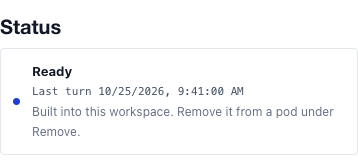
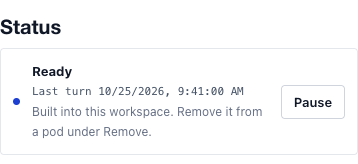
Keep primary harness facts tied to the last spawn receipt
Agent-Model: codex/gpt-6.1-sol/medium
Agent-Model: claude/claude-haiku-5-5/default

Changed region(s): [[0.0922, 0.7622, 0.4302, 0.8537], [0.7374, 0.5793, 0.9525, 0.7317], [0.7682, 0.5183, 0.9832, 0.5488]]

diff --git a/frontend/src/v2/agents/V2AgentSettingsPage.tsx b/frontend/src/v2/agents/V2AgentSettingsPage.tsx
@@ -196,8 +196,9 @@ const V2AgentSettingsPage: React.FC = () => {
   };
   const activeKeys = keys.filter((key) => key.status === 'active');
   const kind = agentRuntimeKind(runtime, connectionState === 'never' ? false : processConnected);
-  const harnessLabel = describeRuntime({ ...runtime, adapter: runtimeObservation?.lastSpawn?.harness || runtime.adapter }).adapter
-    || runtimeObservation?.lastSpawn?.harness || runtime.adapter;
+  const harnessLabel = runtimeObservation?.lastSpawn
+    ? describeRuntime({ ...runtime, adapter: runtimeObservation.lastSpawn.harness }).adapter
+      || runtimeObservation.lastSpawn.harness : null;
   const revokedKeys = keys.filter((key) => key.status === 'revoked');
   const keyLabel = (key: RuntimeKey): string => {
     const defaultLabel = !key.label || key.label === 'Runtime token' || key.label === 'Agent Settings replacement';
@@ -232,6 +233,7 @@ const V2AgentSettingsPage: React.FC = () => {
       )}
     </li>
   );
+  const runtimeSummary = <V2AgentRuntimeSummary name={agentName} runtime={runtime} serverModel={runtimeRun?.model} />;
 
   return (
     <main className="v2-agent-settings">
@@ -252,8 +254,11 @@ const V2AgentSettingsPage: React.FC = () => {
         paused={installation?.status === 'paused'} builtIn={kind === 'builtIn'}
         observation={runtimeObservation} run={runtimeRun} task={heldTask} update={update}
         refreshNonce={connectionRefreshNonce} onConnectionState={onConnectionState} />
-      <V2AgentRuntimeGrants name={agentName} instanceId={instanceId} runtime={runtime} section="runtime" runtimeTitle={t('agentSettings.rev3.runtime')}
-        runtimeSummary={<V2AgentRuntimeSummary name={agentName} runtime={runtime} serverModel={runtimeRun?.model} />} />
+      {connectionState === 'never' ? <section className="v2-agent-settings__section" aria-labelledby="agent-runtime-heading">
+        <h2 id="agent-runtime-heading">{t('agentSettings.rev3.runtime')}</h2>{runtimeSummary}
+      </section> : <V2AgentRuntimeGrants name={agentName} instanceId={instanceId} runtime={runtime} section="runtime" runtimeTitle={t('agentSettings.rev3.runtime')}
+        onSaveRuntime={runtimeEditable ? updateRuntime : undefined}
+        runtimeSummary={runtimeSummary} />}
       {runtimeManaged && runtimeEditable && <details className="v2-agent-settings__runtime-details">
         <summary>{t('agentSettings.rev3.editRuntime')}</summary>
         <V2RuntimeControls runtime={runtime} onSave={updateRuntime} />

diff --git a/frontend/src/v2/agents/V2AgentRuntimeSummary.tsx b/frontend/src/v2/agents/V2AgentRuntimeSummary.tsx
@@ -17,12 +17,18 @@ const V2AgentRuntimeSummary: React.FC<{
   const details = describeRuntime(runtime);
   const onCommonly = details.mode === 'native' || details.mode === 'hosted';
   const last = runtime.observation?.lastSpawn;
+  const observedHarness = last ? describeRuntime({ ...runtime, adapter: last.harness }).adapter || last.harness : null;
   const model = onCommonly ? serverModel : last?.model;
   const configCommand = `commonly agent config ${name} --model <id> --effort <level>`;
+  const copy = async () => {
+    setCopyError(false);
+    try { await navigator.clipboard.writeText(configCommand); }
+    catch { setCopyError(true); }
+  };
   return <div className="v2-agent-runtime-summary">
     <dl>
       <div><dt>{t('agentSettings.rev3.where')}</dt><dd>{t(`agentSettings.rev3.${onCommonly ? 'onCommonly' : 'onMachine'}`)}
-        {details.mode === 'native' ? `, ${t('agentSettings.rev3.builtIn')}` : details.adapter ? ` · ${details.adapter}` : ''}</dd></div>
+        {details.mode === 'native' ? `, ${t('agentSettings.rev3.builtIn')}` : observedHarness ? ` · ${observedHarness}` : ''}</dd></div>
       <div><dt>{t('agentManage.controls.model')}{!onCommonly && ` · ${t('agentManage.controls.effort')}`}</dt>
         <dd>{onCommonly && `${t('agentSettings.rev3.modelPicked')}: `}{model || t('agentManage.controls.notReported')}
           {!onCommonly && last?.effort ? ` · ${last.effort}` : ''}
@@ -30,10 +36,7 @@ const V2AgentRuntimeSummary: React.FC<{
         </dd></div>
     </dl>
     {!onCommonly && last && <div className="v2-agent-runtime-summary__command"><code>{configCommand}</code>
-      <button type="button" onClick={() => {
-        setCopyError(false);
-        void navigator.clipboard.writeText(configCommand).catch(() => setCopyError(true));
-      }}>{t('common.copy')}</button>
+      <button type="button" onClick={() => { void copy(); }}>{t('common.copy')}</button>
     </div>}
     {copyError && <p role="alert">{t('agentSettings.rev3.copyError')}</p>}
   </div>;

diff --git a/frontend/src/v2/__tests__/V2AgentSettingsPage.test.tsx b/frontend/src/v2/__tests__/V2AgentSettingsPage.test.tsx
@@ -1,6 +1,6 @@
 // @ts-nocheck
 import React from 'react';
-import { act, fireEvent, render, screen, waitFor } from '@testing-library/react';
+import { act, fireEvent, render, screen, waitFor, within } from '@testing-library/react';
 import { MemoryRouter, Route, Routes, useNavigate } from 'react-router-dom';
 import V2AgentSettingsPage from '../agents/V2AgentSettingsPage';
 import { AuthContext } from '../../context/AuthContext';
@@ -591,4 +591,23 @@ test.each(['hosted', 'native'])('rev3 %s shows the server run model and never re
     await waitFor(() => expect(axios.patch).toHaveBeenCalledWith('/api/registry/pods/pod-1/agents/maya-claude',
       { status: 'paused', instanceId: 'default' }));
   }
+});
+
+test('the primary harness follows the last spawn, not a different saved choice', async () => {
+  const defaultGet = axios.get.getMockImplementation();
+  axios.get.mockImplementation((url, options) => {
+    if (url.includes('/manage-settings')) return Promise.resolve({ data: {
+      writablePodId: 'pod-1', runtimeManaged: true,
+      runtimeControls: { runtimeType: 'wrapper', adapter: 'codex', model: 'saved-model' },
+      runtimeObservation: { lastSpawn: { harness: 'claude', model: 'actual-model', effort: 'high', at: '2026-10-25T12:00:00Z' } },
+      installations: [{ podId: 'pod-1', podName: 'Workspace', status: 'active' }],
+    } });
+    return defaultGet(url, options);
+  });
+  renderPage();
+  const section = (await screen.findByRole('heading', { name: 'Runtime', exact: true })).closest('section');
+  expect(within(section).getByText('On your machine · Claude Code')).toBeInTheDocument();
+  expect(section).toHaveTextContent('actual-model · high');
+  expect(section).not.toHaveTextContent('saved-model');
+  expect(section).not.toHaveTextContent('On your machine · Codex');
 });

diff --git a/frontend/src/v2/agents/V2AgentStatus.tsx b/frontend/src/v2/agents/V2AgentStatus.tsx
@@ -50,7 +50,7 @@ const V2AgentStatus: React.FC<Props> = ({ agentName, instanceId, paused, builtIn
             <p>{t(`agentSettings.rev3.${builtIn ? 'builtInStatus' : never ? 'connectHint' : off ? 'offHint' : 'pauseHint'}`)}</p>
           </div>
           {(never || connection?.state === 'revoked') && reconnect ? <Link className="v2-agent-settings__action" to={reconnect}>{t(never ? 'agentSettings.rev3.connect' : 'agentConnection.reconnect')}</Link>
-            : snapshot && !builtIn && <button type="button" disabled={busy} onClick={() => { void togglePause(); }}>
+            : snapshot && <button type="button" disabled={busy} onClick={() => { void togglePause(); }}>
               {t(`agentSettings.rev3.${paused ? 'resume' : 'pause'}`)}
             </button>}
         </div>
